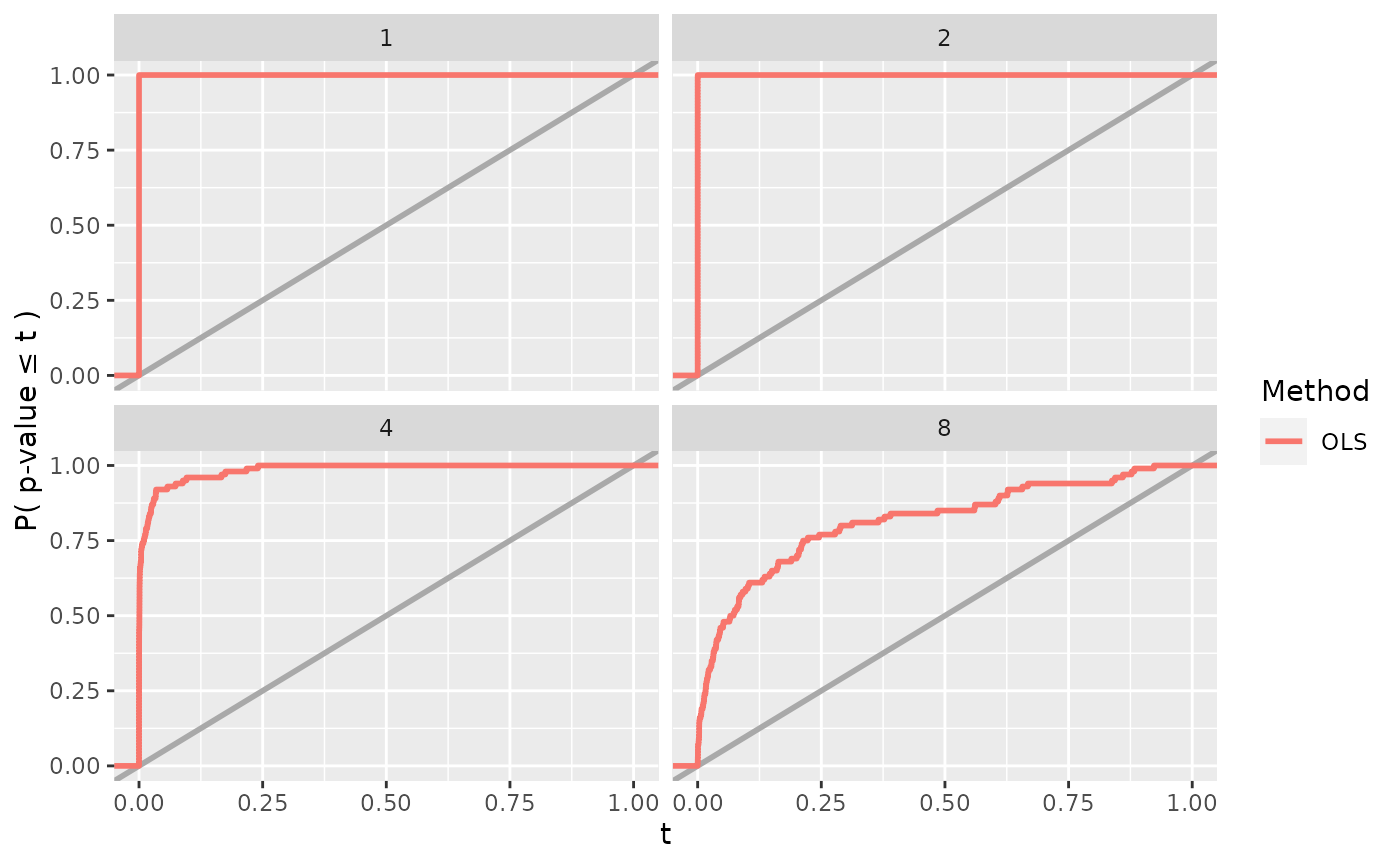
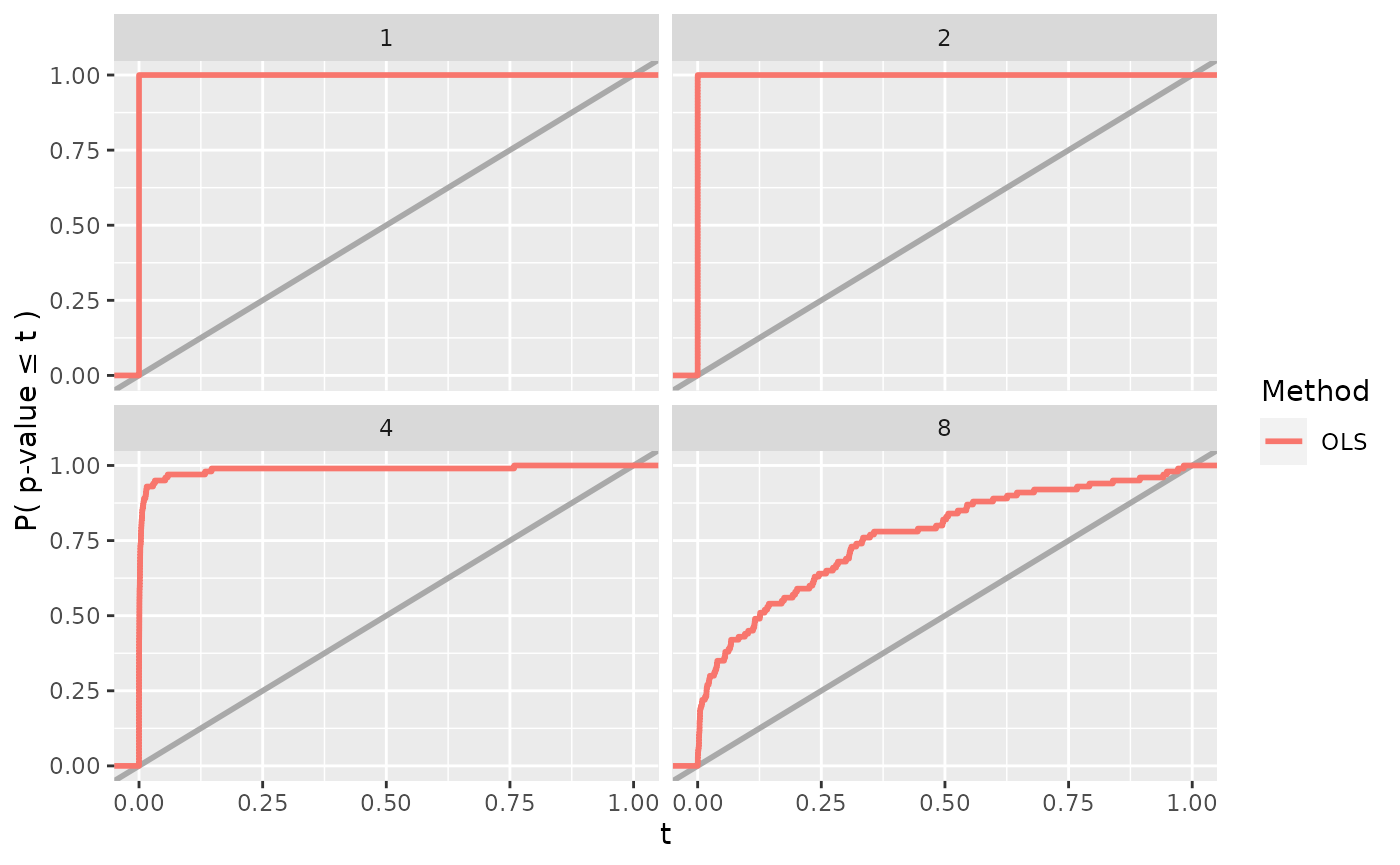
Built site for simChef: 0.0.1@76320b6

Changed region(s): [[0.4914, 0.5306, 0.7679, 0.8116], [0.0921, 0.5306, 0.3686, 0.6243], [0.7986, 0.5306, 0.86, 0.5618]]

diff --git a/articles/simChef.html b/articles/simChef.html
@@ -269,20 +269,20 @@
 <div class="sourceCode" id="cb14"><pre class="downlit sourceCode r">
 <code class="sourceCode R"><span class="va">results</span> <span class="op">&lt;-</span> <span class="va">experiment</span><span class="op">$</span><span class="fu">run</span><span class="op">(</span>n_reps <span class="op">=</span> <span class="fl">100</span>, save <span class="op">=</span> <span class="cn">TRUE</span><span class="op">)</span>
 <span class="co">#&gt; Fitting Linear Regression Experiment...</span>
-<span class="co">#&gt; Fitting completed | time taken: 0.026784 minutes</span>
+<span class="co">#&gt; Fitting completed | time taken: 0.027290 minutes</span>
 <span class="co">#&gt; Saving fit results...</span>
-<span class="co">#&gt; Fit results saved | time taken: 0.012683 seconds</span>
+<span class="co">#&gt; Fit results saved | time taken: 0.019592 seconds</span>
 <span class="co">#&gt; ==============================</span>
 <span class="co">#&gt; Evaluating Linear Regression Experiment...</span>
 <span class="co">#&gt; `summarise()` has grouped output by 'dgp_name'. You can override using the `.groups` argument.</span>
-<span class="co">#&gt; Evaluation completed | time taken: 0.000249 minutes</span>
+<span class="co">#&gt; Evaluation completed | time taken: 0.000291 minutes</span>
 <span class="co">#&gt; Saving eval results...</span>
-<span class="co">#&gt; Eval results saved | time taken: 0.014866 seconds</span>
+<span class="co">#&gt; Eval results saved | time taken: 0.014541 seconds</span>
 <span class="co">#&gt; ==============================</span>
 <span class="co">#&gt; Visualizing Linear Regression Experiment...</span>
-<span class="co">#&gt; Visualization completed | time taken: 0.001972 minutes</span>
+<span class="co">#&gt; Visualization completed | time taken: 0.002106 minutes</span>
 <span class="co">#&gt; Saving visualize results...</span>
-<span class="co">#&gt; Visualize results saved | time taken: 0.059932 seconds</span>
+<span class="co">#&gt; Visualize results saved | time taken: 0.059550 seconds</span>
 <span class="co">#&gt; ==============================</span></code></pre></div>
 <p>or alternatively,</p>
 <div class="sourceCode" id="cb15"><pre class="downlit sourceCode r">
@@ -310,23 +310,23 @@
 <span class="co">#&gt; # A tibble: 100 × 5</span>
 <span class="co">#&gt;    rep   dgp_name            method_name `X1 p-value` `X2 p-value`</span>
 <span class="co">#&gt;    &lt;chr&gt; &lt;chr&gt;               &lt;chr&gt;              &lt;dbl&gt;        &lt;dbl&gt;</span>
-<span class="co">#&gt;  1 1     Linear Gaussian DGP OLS             1.06e-36       0.675 </span>
-<span class="co">#&gt;  2 2     Linear Gaussian DGP OLS             9.42e-29       0.0782</span>
-<span class="co">#&gt;  3 3     Linear Gaussian DGP OLS             1.16e-29       0.207 </span>
-<span class="co">#&gt;  4 4     Linear Gaussian DGP OLS             8.33e-33       0.307 </span>
-<span class="co">#&gt;  5 5     Linear Gaussian DGP OLS             2.50e-39       0.126 </span>
-<span class="co">#&gt;  6 6     Linear Gaussian DGP OLS             6.45e-35       0.128 </span>
-<span class="co">#&gt;  7 7     Linear Gaussian DGP OLS             5.77e-32       0.0736</span>
-<span class="co">#&gt;  8 8     Linear Gaussian DGP OLS             9.10e-36       0.641 </span>
-<span class="co">#&gt;  9 9     Linear Gaussian DGP OLS             9.66e-26       0.937 </span>
-<span class="co">#&gt; 10 10    Linear Gaussian DGP OLS             5.98e-31       0.779 </span>
+<span class="co">#&gt;  1 1     Linear Gaussian DGP OLS             2.86e-30      0.667  </span>
+<span class="co">#&gt;  2 2     Linear Gaussian DGP OLS             3.36e-35      0.139  </span>
+<span class="co">#&gt;  3 3     Linear Gaussian DGP OLS             8.58e-26      0.538  </span>
+<span class="co">#&gt;  4 4     Linear Gaussian DGP OLS             1.68e-30      0.677  </span>
+<span class="co">#&gt;  5 5     Linear Gaussian DGP OLS             1.14e-40      0.0357 </span>
+<span class="co">#&gt;  6 6     Linear Gaussian DGP OLS             2.32e-32      0.115  </span>
+<span class="co">#&gt;  7 7     Linear Gaussian DGP OLS             2.90e-33      0.495  </span>
+<span class="co">#&gt;  8 8     Linear Gaussian DGP OLS             1.07e-31      0.730  </span>
+<span class="co">#&gt;  9 9     Linear Gaussian DGP OLS             1.51e-30      0.594  </span>
+<span class="co">#&gt; 10 10    Linear Gaussian DGP OLS             1.17e-31      0.00815</span>
 <span class="co">#&gt; # … with 90 more rows</span>
 <span class="va">results</span><span class="op">$</span><span class="va">eval_results</span>
 <span class="co">#&gt; $`Rejection Prob. (alpha = 0.1)`</span>
 <span class="co">#&gt; # A tibble: 1 × 4</span>
 <span class="co">#&gt;   dgp_name            method_name `X1 Reject Prob.` `X2 Reject Prob.`</span>
 <span class="co">#&gt;   &lt;chr&gt;               &lt;chr&gt;                   &lt;dbl&gt;             &lt;dbl&gt;</span>
-<span class="co">#&gt; 1 Linear Gaussian DGP OLS                         1              0.11</span>
+<span class="co">#&gt; 1 Linear Gaussian DGP OLS                         1              0.05</span>
 <span class="va">results</span><span class="op">$</span><span class="va">visualize_results</span>
 <span class="co">#&gt; $Power</span></code></pre></div>
 <p><img src="simChef_files/figure-html/unnamed-chunk-17-1.png" width="700"></p>
@@ -374,26 +374,26 @@
 <div class="sourceCode" id="cb21"><pre class="downlit sourceCode r">
 <code class="sourceCode R"><span class="va">vary_results</span> <span class="op">&lt;-</span> <span class="va">experiment</span><span class="op">$</span><span class="fu">run</span><span class="op">(</span>n_reps <span class="op">=</span> <span class="fl">100</span>, save <span class="op">=</span> <span class="cn">TRUE</span><span class="op">)</span>
 <span class="co">#&gt; Fitting Linear Regression Experiment...</span>
-<span class="co">#&gt; Fitting completed | time taken: 0.065517 minutes</span>
+<span class="co">#&gt; Fitting completed | time taken: 0.065291 minutes</span>
 <span class="co">#&gt; Saving fit results...</span>
-<span class="co">#&gt; Fit results saved | time taken: 0.023986 seconds</span>
+<span class="co">#&gt; Fit results saved | time taken: 0.024636 seconds</span>
 <span class="co">#&gt; ==============================</span>
 <span class="co">#&gt; Evaluating Linear Regression Experiment...</span>
-<span class="co">#&gt; Evaluation completed | time taken: 0.000321 minutes</span>
+<span class="co">#&gt; Evaluation completed | time taken: 0.000334 minutes</span>
 <span class="co">#&gt; Saving eval results...</span>
-<span class="co">#&gt; Eval results saved | time taken: 0.022891 seconds</span>
+<span class="co">#&gt; Eval results saved | time taken: 0.024676 seconds</span>
 <span class="co">#&gt; ==============================</span>
 <span class="co">#&gt; Visualizing Linear Regression Experiment...</span>
-<span class="co">#&gt; Visualization completed | time taken: 0.000284 minutes</span>
+<span class="co">#&gt; Visualization completed | time taken: 0.000276 minutes</span>
 <span class="co">#&gt; Saving visualize results...</span>
-<span class="co">#&gt; Visualize results saved | time taken: 0.068087 seconds</span>
+<span class="co">#&gt; Visualize results saved | time taken: 0.066949 seconds</span>
 <span class="co">#&gt; ==============================</span>
 <span class="va">vary_results</span><span class="op">$</span><span class="va">eval_results</span>
 <span class="co">#&gt; $`Rejection Prob. (alpha = 0.1)`</span>
 <span class="co">#&gt; # A tibble: 1 × 4</span>
 <span class="co">#&gt;   dgp_name            method_name `X1 Reject Prob.` `X2 Reject Prob.`</span>
 <span class="co">#&gt;   &lt;chr&gt;               &lt;chr&gt;                   &lt;dbl&gt;             &lt;dbl&gt;</span>
-<span class="co">#&gt; 1 Linear Gaussian DGP OLS                     0.888             0.095</span>
+<span class="co">#&gt; 1 Linear Gaussian DGP OLS                      0.85             0.065</span>
 <span class="va">vary_results</span><span class="op">$</span><span class="va">visualize_results</span>
 <span class="co">#&gt; $Power</span></code></pre></div>
 <p><img src="simChef_files/figure-html/unnamed-chunk-22-1.png" width="700"></p>
@@ -446,29 +446,29 @@
   <span class="fu"><a href="../reference/update_funs.html">update_visualizer</a></span><span class="op">(</span><span class="va">power_plot</span>, name <span class="op">=</span> <span class="st">"Power"</span><span class="op">)</span> <span class="op">%&gt;%</span>
   <span class="fu"><a href="../reference/run_experiment.html">run_experiment</a></span><span class="op">(</span>n_reps <span class="op">=</span> <span class="fl">100</span>, save <span class="op">=</span> <span class="cn">TRUE</span><span class="op">)</span>
 <span class="co">#&gt; Fitting Linear Regression Experiment...</span>
-<span class="co">#&gt; Fitting completed | time taken: 0.065070 minutes</span>
+<span class="co">#&gt; Fitting completed | time taken: 0.068269 minutes</span>
 <span class="co">#&gt; Saving fit results...</span>
-<span class="co">#&gt; Fit results saved | time taken: 0.024217 seconds</span>
+<span class="co">#&gt; Fit results saved | time taken: 0.023955 seconds</span>
 <span class="co">#&gt; ==============================</span>
 <span class="co">#&gt; Evaluating Linear Regression Experiment...</span>
-<span class="co">#&gt; Evaluation completed | time taken: 0.000258 minutes</span>
+<span class="co">#&gt; Evaluation completed | time taken: 0.000209 minutes</span>
 <span class="co">#&gt; Saving eval results...</span>
-<span class="co">#&gt; Eval results saved | time taken: 0.025120 seconds</span>
+<span class="co">#&gt; Eval results saved | time taken: 0.022810 seconds</span>
 <span class="co">#&gt; ==============================</span>
 <span class="co">#&gt; Visualizing Linear Regression Experiment...</span>
-<span class="co">#&gt; Visualization completed | time taken: 0.000488 minutes</span>
+<span class="co">#&gt; Visualization completed | time taken: 0.000546 minutes</span>
 <span class="co">#&gt; Saving visualize results...</span>
-<span class="co">#&gt; Visualize results saved | time taken: 0.080208 seconds</span>
+<span class="co">#&gt; Visualize results saved | time taken: 0.080792 seconds</span>
 <span class="co">#&gt; ==============================</span>
 <span class="va">vary_results</span><span class="op">$</span><span class="va">eval_results</span>
 <span class="co">#&gt; $`Rejection Prob. (alpha = 0.1)`</span>
 <span class="co">#&gt; # A tibble: 4 × 5</span>
 <span class="co">#&gt;   dgp_name            method_name sigma `X1 Reject Prob.` `X2 Reject Prob.`</span>
 <span class="co">#&gt;   &lt;chr&gt;               &lt;chr&gt;       &lt;dbl&gt;             &lt;dbl&gt;             &lt;dbl&gt;</span>
-<span class="co">#&gt; 1 Linear Gaussian DGP OLS             1              1                 0.1 </span>
-<span class="co">#&gt; 2 Linear Gaussian DGP OLS             2              1                 0.08</span>
-<span class="co">#&gt; 3 Linear Gaussian DGP OLS             4              0.96              0.09</span>
-<span class="co">#&gt; 4 Linear Gaussian DGP OLS             8              0.59              0.11</span>
+<span class="co">#&gt; 1 Linear Gaussian DGP OLS             1              1                 0.08</span>
+<span class="co">#&gt; 2 Linear Gaussian DGP OLS             2              1                 0.05</span>
+<span class="co">#&gt; 3 Linear Gaussian DGP OLS             4              0.97              0.09</span>
+<span class="co">#&gt; 4 Linear Gaussian DGP OLS             8              0.44              0.06</span>
 <span class="va">vary_results</span><span class="op">$</span><span class="va">visualize_results</span>
 <span class="co">#&gt; $Power</span></code></pre></div>
 <p><img src="simChef_files/figure-html/unnamed-chunk-25-1.png" width="700"></p>
@@ -519,19 +519,19 @@
                               <span class="fu"><a href="https://rdrr.io/r/base/c.html">c</a></span><span class="op">(</span><span class="fl">1</span>, <span class="fl">2</span><span class="op">)</span><span class="op">)</span><span class="op">)</span> <span class="op">%&gt;%</span>
   <span class="fu"><a href="../reference/run_experiment.html">run_experiment</a></span><span class="op">(</span>n_reps <span class="op">=</span> <span class="fl">100</span>, save <span class="op">=</span> <span class="cn">TRUE</span><span class="op">)</span>
 <span class="co">#&gt; Fitting Linear Regression Experiment...</span>
-<span class="co">#&gt; Fitting completed | time taken: 0.151339 minutes</span>
+<span class="co">#&gt; Fitting completed | time taken: 0.159723 minutes</span>
 <span class="co">#&gt; Saving fit results...</span>
-<span class="co">#&gt; Fit results saved | time taken: 0.032769 seconds</span>
+<span class="co">#&gt; Fit results saved | time taken: 0.032465 seconds</span>
 <span class="co">#&gt; ==============================</span>
 <span class="co">#&gt; Evaluating Linear Regression Experiment...</span>
-<span class="co">#&gt; Evaluation completed | time taken: 0.000325 minutes</span>
+<span class="co">#&gt; Evaluation completed | time taken: 0.000435 minutes</span>
 <span class="co">#&gt; Saving eval results...</span>
-<span class="co">#&gt; Eval results saved | time taken: 0.026973 seconds</span>
+<span class="co">#&gt; Eval results saved | time taken: 0.035976 seconds</span>
 <span class="co">#&gt; ==============================</span>
 <span class="co">#&gt; Visualizing Linear Regression Experiment...</span>
-<span class="co">#&gt; Visualization completed | time taken: 0.004408 minutes</span>
+<span class="co">#&gt; Visualization completed | time taken: 0.004970 minutes</span>
 <span class="co">#&gt; Saving visualize results...</span>
-<span class="co">#&gt; Visualize results saved | time taken: 0.122291 seconds</span>
+<span class="co">#&gt; Visualize results saved | time taken: 0.129340 seconds</span>
 <span class="co">#&gt; ==============================</span>
 <span class="co"># run experiment across values of rho (correlation)</span>
 <span class="va">vary_cor_results</span> <span class="op">&lt;-</span> <span class="va">experiment</span> <span class="op">%&gt;%</span>
@@ -540,19 +540,19 @@
                   rho <span class="op">=</span> <span class="fu"><a href="https://rdrr.io/r/base/c.html">c</a></span><span class="op">(</span><span class="fl">0</span>, <span class="fl">0.2</span>, <span class="fl">0.5</span>, <span class="fl">0.9</span><span class="op">)</span><span class="op">)</span> <span class="op">%&gt;%</span>
   <span class="fu"><a href="../reference/run_experiment.html">run_experiment</a></span><span class="op">(</span>n_reps <span class="op">=</span> <span class="fl">100</span>, save <span class="op">=</span> <span class="cn">TRUE</span><span class="op">)</span>
 <span class="co">#&gt; Fitting Linear Regression Experiment...</span>
-<span class="co">#&gt; Fitting completed | time taken: 0.062647 minutes</span>
+<span class="co">#&gt; Fitting completed | time taken: 0.068762 minutes</span>
 <span class="co">#&gt; Saving fit results...</span>
-<span class="co">#&gt; Fit results saved | time taken: 0.025517 seconds</span>
+<span class="co">#&gt; Fit results saved | time taken: 0.033473 seconds</span>
 <span class="co">#&gt; ==============================</span>
 <span class="co">#&gt; Evaluating Linear Regression Experiment...</span>
-<span class="co">#&gt; Evaluation completed | time taken: 0.000170 minutes</span>
+<span class="co">#&gt; Evaluation completed | time taken: 0.000230 minutes</span>
 <span class="co">#&gt; Saving eval results...</span>
-<span class="co">#&gt; Eval results saved | time taken: 0.024949 seconds</span>
+<span class="co">#&gt; Eval results saved | time taken: 0.031971 seconds</span>
 <span class="co">#&gt; ==============================</span>
 <span class="co">#&gt; Visualizing Linear Regression Experiment...</span>
-<span class="co">#&gt; Visualization completed | time taken: 0.002016 minutes</span>
+<span class="co">#&gt; Visualization completed | time taken: 0.002238 minutes</span>
 <span class="co">#&gt; Saving visualize results...</span>
-<span class="co">#&gt; Visualize results saved | time taken: 0.121485 seconds</span>
+<span class="co">#&gt; Visualize results saved | time taken: 0.138874 seconds</span>
 <span class="co">#&gt; ==============================</span></code></pre></div>
 </div>
 <div id="experiment-as-an-r6-class" class="section level2">
@@ -705,15 +705,15 @@
 <div class="sourceCode" id="cb36"><pre class="downlit sourceCode r">
 <code class="sourceCode R"><span class="va">fit_results</span> <span class="op">&lt;-</span> <span class="va">experiment</span><span class="op">$</span><span class="fu">fit</span><span class="op">(</span>n_reps <span class="op">=</span> <span class="fl">100</span><span class="op">)</span>
 <span class="co">#&gt; Fitting Linear Regression Experiment...</span>
-<span class="co">#&gt; Fitting completed | time taken: 0.060215 minutes</span>
+<span class="co">#&gt; Fitting completed | time taken: 0.068223 minutes</span>
 <span class="co">#&gt; ==============================</span>
 <span class="va">eval_results</span> <span class="op">&lt;-</span> <span class="va">experiment</span><span class="op">$</span><span class="fu">evaluate</span><span class="op">(</span><span class="va">fit_results</span><span class="op">)</span>
 <span class="co">#&gt; Evaluating Linear Regression Experiment...</span>
-<span class="co">#&gt; Evaluation completed | time taken: 0.000193 minutes</span>
+<span class="co">#&gt; Evaluation completed | time taken: 0.000231 minutes</span>
 <span class="co">#&gt; ==============================</span>
 <span class="va">visualize_results</span> <span class="op">&lt;-</span> <span class="va">experiment</span><span class="op">$</span><span class="fu">visualize</span><span class="op">(</span><span class="va">fit_results</span>, <span class="va">eval_results</span><span class="op">)</span>
 <span class="co">#&gt; Visualizing Linear Regression Experiment...</span>
-<span class="co">#&gt; Visualization completed | time taken: 0.001831 minutes</span>
+<span class="co">#&gt; Visualization completed | time taken: 0.002135 minutes</span>
 <span class="co">#&gt; ==============================</span></code></pre></div>
 <p>or alternatively,</p>
 <div class="sourceCode" id="cb37"><pre class="downlit sourceCode r">
@@ -730,38 +730,38 @@
 <span class="co">#&gt;  $ Linear Gaussian DGP:List of 4</span>
 <span class="co">#&gt;   ..$ :List of 1</span>
 <span class="co">#&gt;   .. ..$ :List of 2</span>
-<span class="co">#&gt;   .. .. ..$ X: num [1:200, 1:2] 0.0266 -1.7726 -2.1415 1.5555 -1.1212 ...</span>
+<span class="co">#&gt;   .. .. ..$ X: num [1:200, 1:2] -0.301 -0.45 0.986 -0.267 -0.512 ...</span>
 <span class="co">#&gt;   .. .. .. ..- attr(*, "dimnames")=List of 2</span>
 <span class="co">#&gt;   .. .. .. .. ..$ : NULL</span>
 <span class="co">#&gt;   .. .. .. .. ..$ : NULL</span>
-<span class="co">#&gt;   .. .. ..$ y: num [1:200, 1] 1.438 0.116 -3.492 0.647 -1.096 ...</span>
+<span class="co">#&gt;   .. .. ..$ y: num [1:200, 1] -0.672 0.874 0.497 1.513 -0.467 ...</span>
 <span class="co">#&gt;   .. ..- attr(*, "params")=List of 1</span>
 <span class="co">#&gt;   .. .. ..$ sigma: num 1</span>
 <span class="co">#&gt;   ..$ :List of 1</span>
 <span class="co">#&gt;   .. ..$ :List of 2</span>
-<span class="co">#&gt;   .. .. ..$ X: num [1:200, 1:2] -1.627 0.243 -1.324 -0.161 -1.349 ...</span>
+<span class="co">#&gt;   .. .. ..$ X: num [1:200, 1:2] 1.087 -0.358 1.337 0.136 0.275 ...</span>
 <span class="co">#&gt;   .. .. .. ..- attr(*, "dimnames")=List of 2</span>
 <span class="co">#&gt;   .. .. .. .. ..$ : NULL</span>
 <span class="co">#&gt;   .. .. .. .. ..$ : NULL</span>
-<span class="co">#&gt;   .. .. ..$ y: num [1:200, 1] -3.468 0.753 -3.055 -0.354 -3.816 ...</span>
+<span class="co">#&gt;   .. .. ..$ y: num [1:200, 1] -2.28 -1.391 3.394 2.29 -0.951 ...</span>
 <span class="co">#&gt;   .. ..- attr(*, "params")=List of 1</span>
 <span class="co">#&gt;   .. .. ..$ sigma: num 2</span>
 <span class="co">#&gt;   ..$ :List of 1</span>
 <span class="co">#&gt;   .. ..$ :List of 2</span>
-<span class="co">#&gt;   .. .. ..$ X: num [1:200, 1:2] 0.705 0.207 -1.16 -0.945 1.351 ...</span>
+<span class="co">#&gt;   .. .. ..$ X: num [1:200, 1:2] -0.947 1.725 -0.268 -1.16 -0.158 ...</span>
 <span class="co">#&gt;   .. .. .. ..- attr(*, "dimnames")=List of 2</span>
 <span class="co">#&gt;   .. .. .. .. ..$ : NULL</span>
 <span class="co">#&gt;   .. .. .. .. ..$ : NULL</span>
-<span class="co">#&gt;   .. .. ..$ y: num [1:200, 1] 4.813 -4.114 1.804 -3.946 -0.708 ...</span>
+<span class="co">#&gt;   .. .. ..$ y: num [1:200, 1] 2.499 -0.179 -3.566 -1.874 4.262 ...</span>
 <span class="co">#&gt;   .. ..- attr(*, "params")=List of 1</span>
 <span class="co">#&gt;   .. .. ..$ sigma: num 4</span>
 <span class="co">#&gt;   ..$ :List of 1</span>
 <span class="co">#&gt;   .. ..$ :List of 2</span>
-<span class="co">#&gt;   .. .. ..$ X: num [1:200, 1:2] -1.108 -0.786 0.639 -0.537 0.172 ...</span>
+<span class="co">#&gt;   .. .. ..$ X: num [1:200, 1:2] -0.783 -1.233 0.709 0.326 2.417 ...</span>
 <span class="co">#&gt;   .. .. .. ..- attr(*, "dimnames")=List of 2</span>
 <span class="co">#&gt;   .. .. .. .. ..$ : NULL</span>
 <span class="co">#&gt;   .. .. .. .. ..$ : NULL</span>
-<span class="co">#&gt;   .. .. ..$ y: num [1:200, 1] 9.09 4.92 2.18 -11.82 5.49 ...</span>
+<span class="co">#&gt;   .. .. ..$ y: num [1:200, 1] 1.6 -4.9 11.78 8.46 8.49 ...</span>
 <span class="co">#&gt;   .. ..- attr(*, "params")=List of 1</span>
 <span class="co">#&gt;   .. .. ..$ sigma: num 8</span></code></pre></div>
 <p>or alternatively,</p>

diff --git a/articles/parallel.html b/articles/parallel.html
@@ -235,7 +235,7 @@
   <span class="op">)</span>
 <span class="op">)</span>
 <span class="co">#&gt; Fitting base...</span>
-<span class="co">#&gt; Fitting completed | time taken: 0.902190 minutes</span>
+<span class="co">#&gt; Fitting completed | time taken: 0.990622 minutes</span>
 <span class="co">#&gt; ==============================</span>
 <span class="co">#&gt; # A tibble: 136 × 16</span>
 <span class="co">#&gt;      rep dgp_name   method_name     p   rho sparsity nonzero_coeff alpha term   </span>
